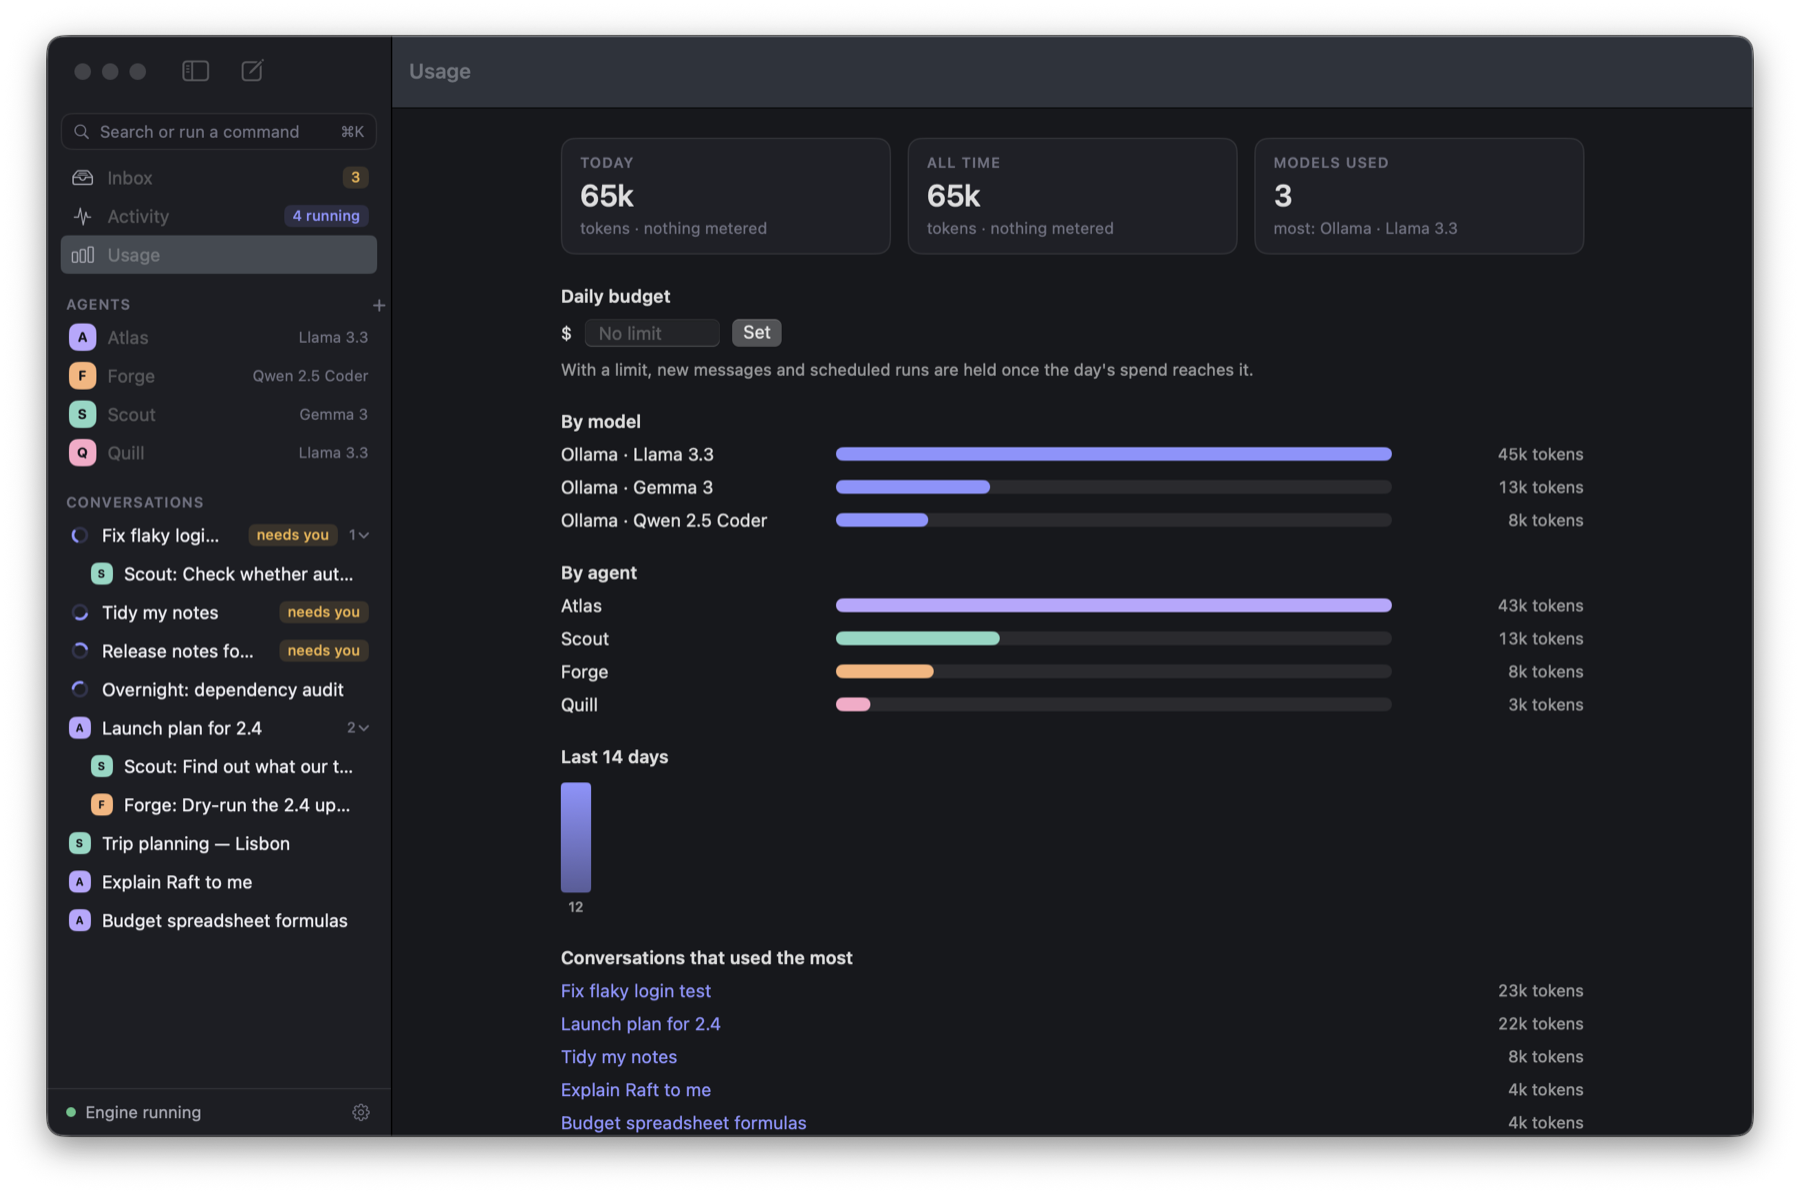
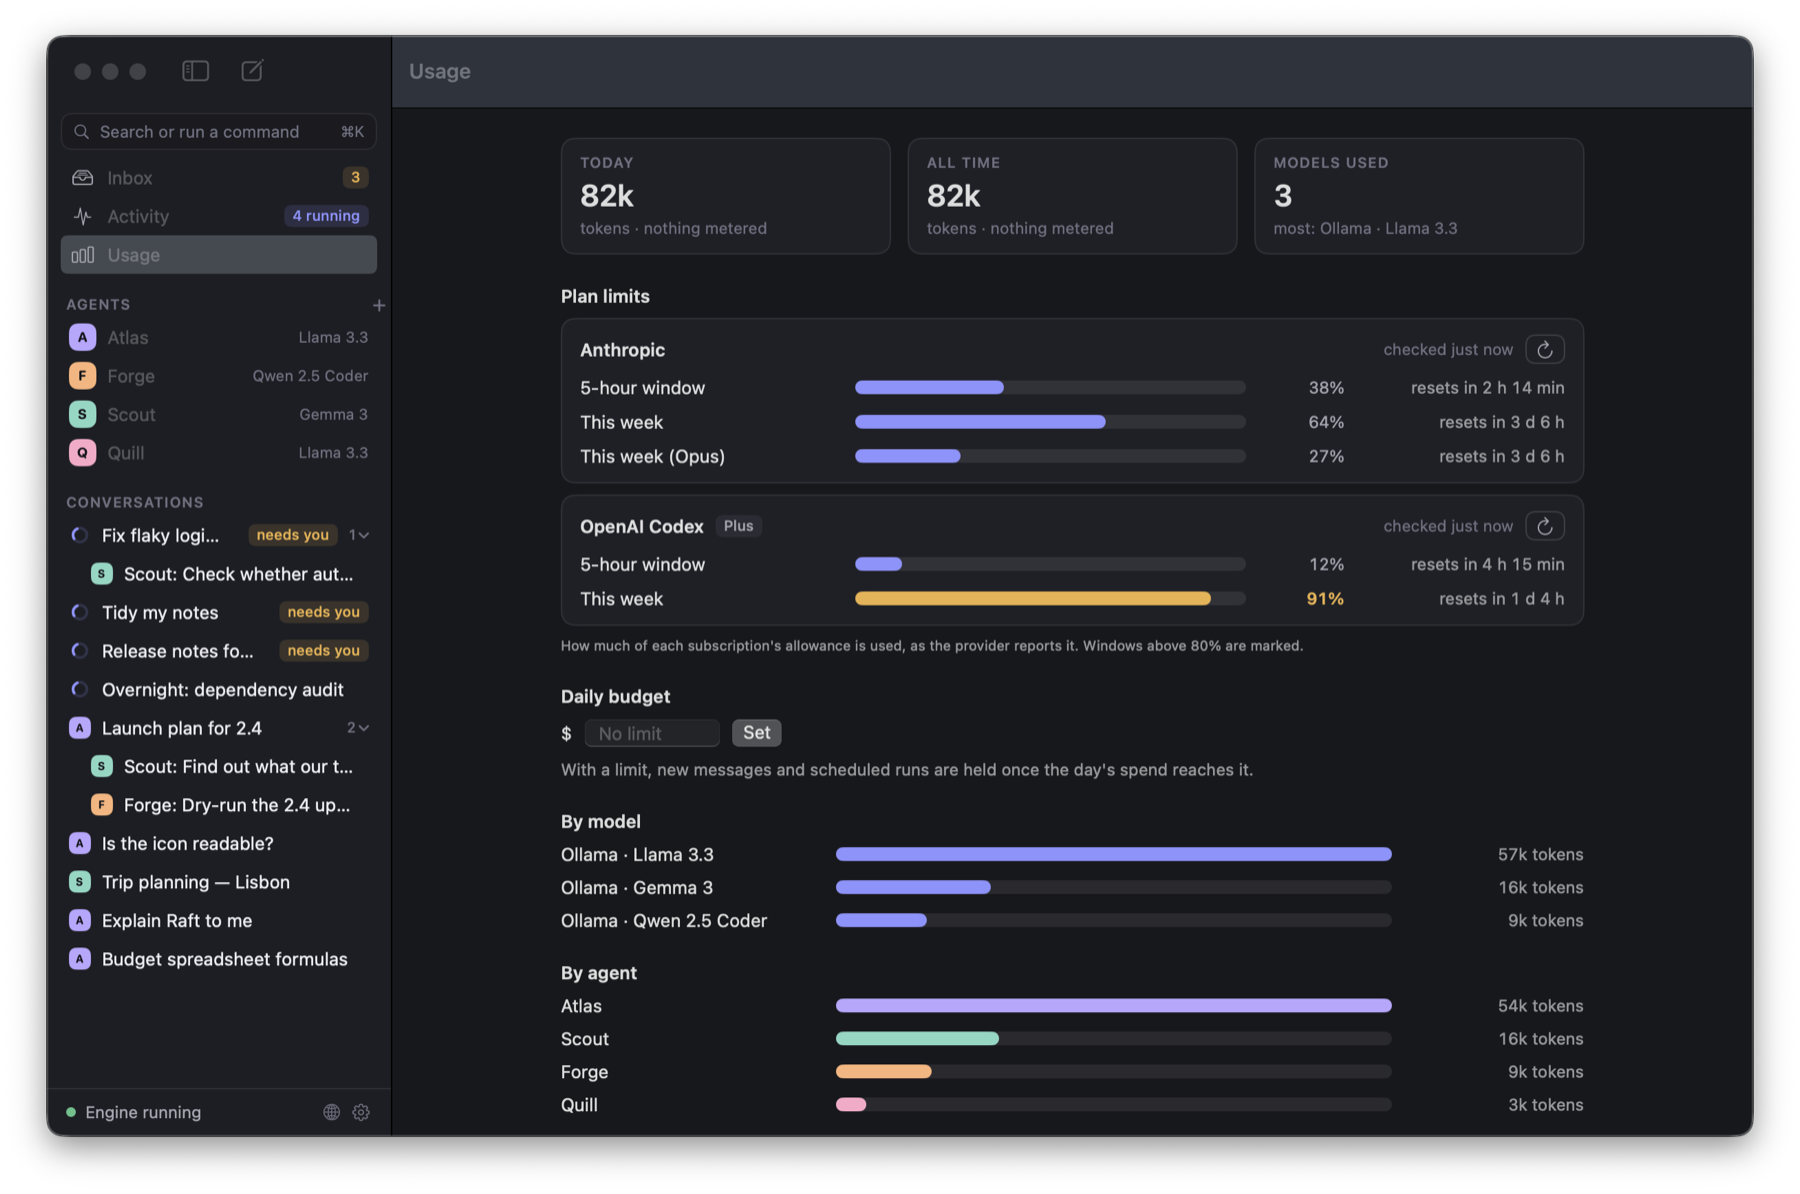
Retake the README pictures with the new transcript; show plan limits and attachments
The sample scenario now keeps a task list, includes a message with a
picture and a file, and reads plan limits from stand-in servers, so the
pictures show those features as they look in the app.

diff --git a/README.md b/README.md
@@ -18,10 +18,10 @@
 </p>
 
 <p align="center">
-  <img src="docs/images/hero.png" alt="A conversation in pi²: an agent runs a test, hands a question to a second agent, edits a file, and asks before pushing" width="900">
+  <img src="docs/images/hero.png" alt="A conversation in pi²: an agent hands a question to a second agent, edits a file, reruns a test, keeps a task list, and asks before pushing" width="900">
 </p>
 
-<p align="center"><sub>The screenshots show sample conversations, with answers scripted for the pictures.</sub></p>
+<p align="center"><sub>The screenshots show sample conversations, with answers and usage figures scripted for the pictures.</sub></p>
 
 ## What it is
 
@@ -82,7 +82,7 @@ Usage is counted by model, agent and conversation. Models you pay for by use sho
 
 For a subscription you are signed in to, Usage also shows the plan's own limits where the provider reports them: how much of the 5-hour and weekly windows is used, and when each resets. [Where the numbers come from](docs/limits.md).
 
-<p align="center"><img src="docs/images/usage.png" alt="Usage by model and by agent" width="820"></p>
+<p align="center"><img src="docs/images/usage.png" alt="Usage: plan limits for two subscriptions, then tokens by model and by agent" width="820"></p>
 
 ### Read it like a document
 
@@ -90,13 +90,16 @@ The conversation is one page, laid out the way Claude Code lays out a session: y
 
 Because it is one page, a selection runs across everything: drag from a paragraph through tool steps and a code block, press ⌘C, and what you paste is clean text. ⌘A then ⌘C copies the whole conversation. [How the transcript is built](docs/transcript.md).
 
+<p align="center"><img src="docs/images/attachments.png" alt="A message with a picture and a file attached, and the agent's answer as a formatted list" width="820"></p>
+
+Paste a screenshot, drop in files, or attach PDFs and Word documents; pictures show in the conversation and open larger when clicked. [What can be attached](docs/attachments.md).
+
 ### And the rest
 
 - **Project instructions**: a folder's `AGENTS.md` or `CLAUDE.md` is given to any agent working in it.
 - **Memory**: switch it on for an agent and it keeps short notes between conversations, which you can read, edit and delete in its settings. [How both work](docs/knowledge.md).
 - **Looking around**: agents can list, find and search files in their folder without the shell, and fetch a page or search the web without the browser, even on a schedule with the app closed. [The look tools](docs/look.md).
 - **A task list**: for work with several steps, the agent keeps a checklist pinned above the message field, so you can see the plan and where it stands.
-- **Pictures and files in chats**: paste a screenshot, drop in files, or attach PDFs and Word documents. [What can be attached](docs/attachments.md).
 - **Reference files**: give an agent files and folders it can always read, including Word and RTF documents. It opens them when it needs them, so they cost nothing until then.
 - **MCP servers**: add tools from other apps and services, per agent.
 - **Scripts**: let a model chain many tool calls in one step.
